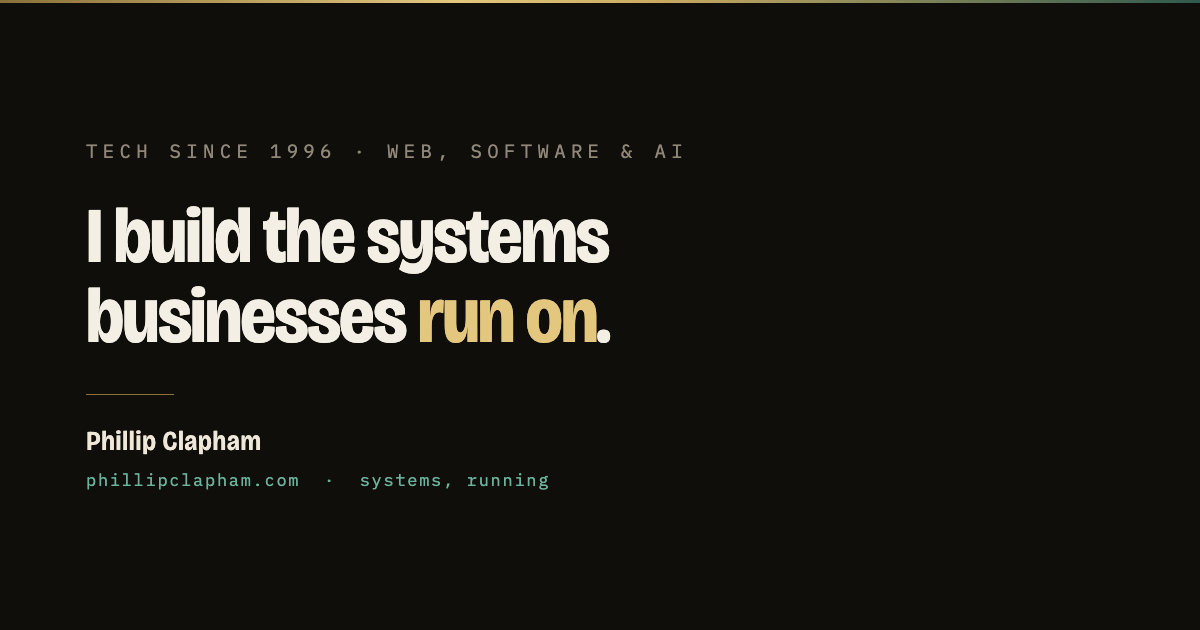
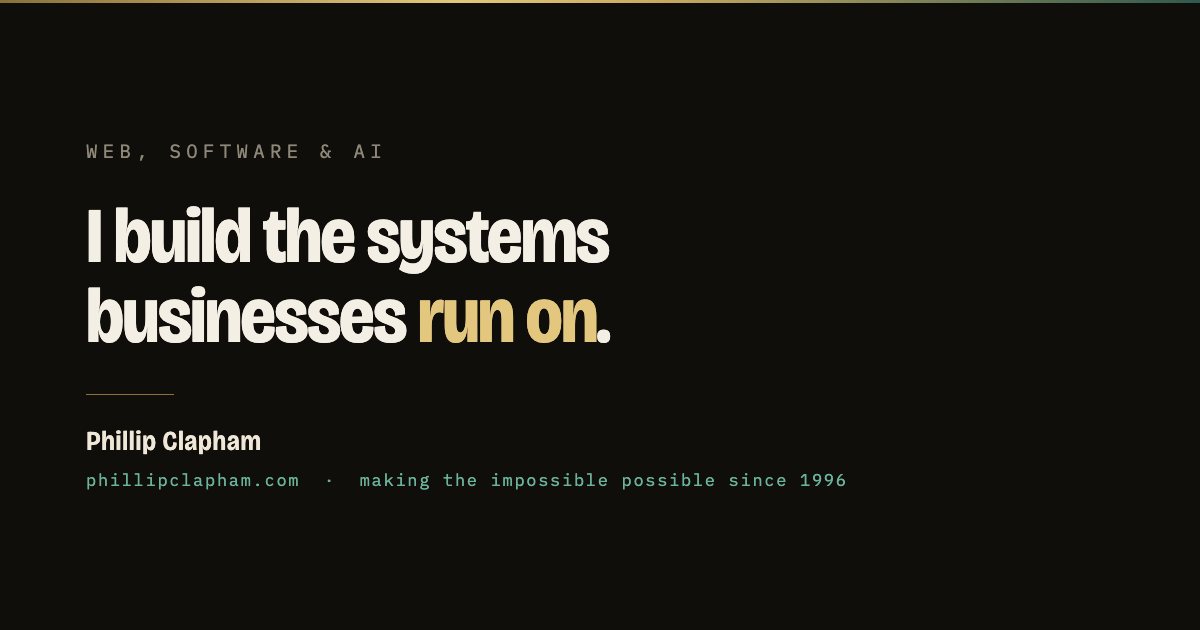
OG card: Phill's pick — "making the impossible possible since 1996"
Phill rejected all four tagline variants and proposed his own line.
Rendered it two ways (eyebrow kept vs. trimmed) since the eyebrow
already said "since 1996" and the new line repeats it — he picked
the trimmed version. Final card: eyebrow "Web, software & AI", meta
line "phillipclapham.com · making the impossible possible since 1996".

og:image:alt / twitter:image:alt updated to match the card's actual
words. Extends to about.html and connect.html per Phill's explicit
"yes, include about and connect with the new image" — both now point
at og-home-v2.png with matching alt text. lab.html, writing.html,
poetry.html, and energetic-economy.html keep the old og-home.png,
untouched, per scope.

Claude-Session: https://claude.ai/code/session_01Y7nRY3tFBqhoLpa2FkM5Zj

diff --git a/about.html b/about.html
@@ -15,17 +15,17 @@
     <meta property="og:type" content="profile" />
     <meta property="og:url" content="https://phillipclapham.com/about" />
     <meta property="og:title" content="About | Phillip Clapham" />
-    <meta property="og:image" content="https://phillipclapham.com/og-home.png" />
+    <meta property="og:image" content="https://phillipclapham.com/og-home-v2.png" />
     <meta property="og:image:width" content="1200" />
     <meta property="og:image:height" content="630" />
-    <meta property="og:image:alt" content="Intelligence is an arrangement, not a substance. Phillip Clapham — solutions architect and harness engineer." />
+    <meta property="og:image:alt" content="I build the systems businesses run on. Phillip Clapham — web, software &amp; AI, making the impossible possible since 1996." />
     <meta
       property="og:description"
       content="Solutions architect and harness engineer. Author of A Structural Theory of Harnesses. I build the systems humans and machines work through, and I build them to be governed, not trusted."
     />
     <meta name="twitter:card" content="summary_large_image" />
-    <meta name="twitter:image" content="https://phillipclapham.com/og-home.png" />
-    <meta name="twitter:image:alt" content="Intelligence is an arrangement, not a substance. Phillip Clapham — solutions architect and harness engineer." />
+    <meta name="twitter:image" content="https://phillipclapham.com/og-home-v2.png" />
+    <meta name="twitter:image:alt" content="I build the systems businesses run on. Phillip Clapham — web, software &amp; AI, making the impossible possible since 1996." />
 
     <script>
       (function () {

diff --git a/connect.html b/connect.html
@@ -14,14 +14,14 @@
     <meta property="og:type" content="website" />
     <meta property="og:url" content="https://phillipclapham.com/connect" />
     <meta property="og:title" content="Connect | Phillip Clapham" />
-    <meta property="og:image" content="https://phillipclapham.com/og-home.png" />
+    <meta property="og:image" content="https://phillipclapham.com/og-home-v2.png" />
     <meta property="og:image:width" content="1200" />
     <meta property="og:image:height" content="630" />
-    <meta property="og:image:alt" content="Intelligence is an arrangement, not a substance. Phillip Clapham — solutions architect and harness engineer." />
+    <meta property="og:image:alt" content="I build the systems businesses run on. Phillip Clapham — web, software &amp; AI, making the impossible possible since 1996." />
     <meta property="og:description" content="Every way to find and reach me. Columbus, Ohio — remote, US-based." />
     <meta name="twitter:card" content="summary_large_image" />
-    <meta name="twitter:image" content="https://phillipclapham.com/og-home.png" />
-    <meta name="twitter:image:alt" content="Intelligence is an arrangement, not a substance. Phillip Clapham — solutions architect and harness engineer." />
+    <meta name="twitter:image" content="https://phillipclapham.com/og-home-v2.png" />
+    <meta name="twitter:image:alt" content="I build the systems businesses run on. Phillip Clapham — web, software &amp; AI, making the impossible possible since 1996." />
     <script>
       (function () {
         if (localStorage.getItem("theme-preference") === "light") {

diff --git a/index.html b/index.html
@@ -18,14 +18,14 @@
     <meta property="og:image" content="https://phillipclapham.com/og-home-v2.png" />
     <meta property="og:image:width" content="1200" />
     <meta property="og:image:height" content="630" />
-    <meta property="og:image:alt" content="I build the systems businesses run on. Phillip Clapham — tech since 1996: web, software, and AI." />
+    <meta property="og:image:alt" content="I build the systems businesses run on. Phillip Clapham — web, software &amp; AI, making the impossible possible since 1996." />
     <meta
       property="og:description"
       content="Thirty years in tech: Fortune 500 web infrastructure, shipped consumer apps, client work end to end — and, at the sharpest edge, AI systems built to be governed, not trusted."
     />
     <meta name="twitter:card" content="summary_large_image" />
     <meta name="twitter:image" content="https://phillipclapham.com/og-home-v2.png" />
-    <meta name="twitter:image:alt" content="I build the systems businesses run on. Phillip Clapham — tech since 1996: web, software, and AI." />
+    <meta name="twitter:image:alt" content="I build the systems businesses run on. Phillip Clapham — web, software &amp; AI, making the impossible possible since 1996." />
     <meta name="twitter:title" content="Phillip Clapham | Web, Software &amp; AI Systems" />
     <meta
       name="twitter:description"

diff --git a/design/og-source.html b/design/og-source.html
@@ -84,10 +84,10 @@
   </head>
   <body>
     <div class="seam"></div>
-    <p class="eyebrow">Tech since 1996 · Web, software &amp; AI</p>
+    <p class="eyebrow">Web, software &amp; AI</p>
     <h1>I build the systems businesses <em>run on</em>.</h1>
     <div class="rule"></div>
     <p class="name">Phillip Clapham</p>
-    <p class="meta">phillipclapham.com &nbsp;·&nbsp; systems, running</p>
+    <p class="meta">phillipclapham.com &nbsp;·&nbsp; making the impossible possible since 1996</p>
   </body>
 </html>
